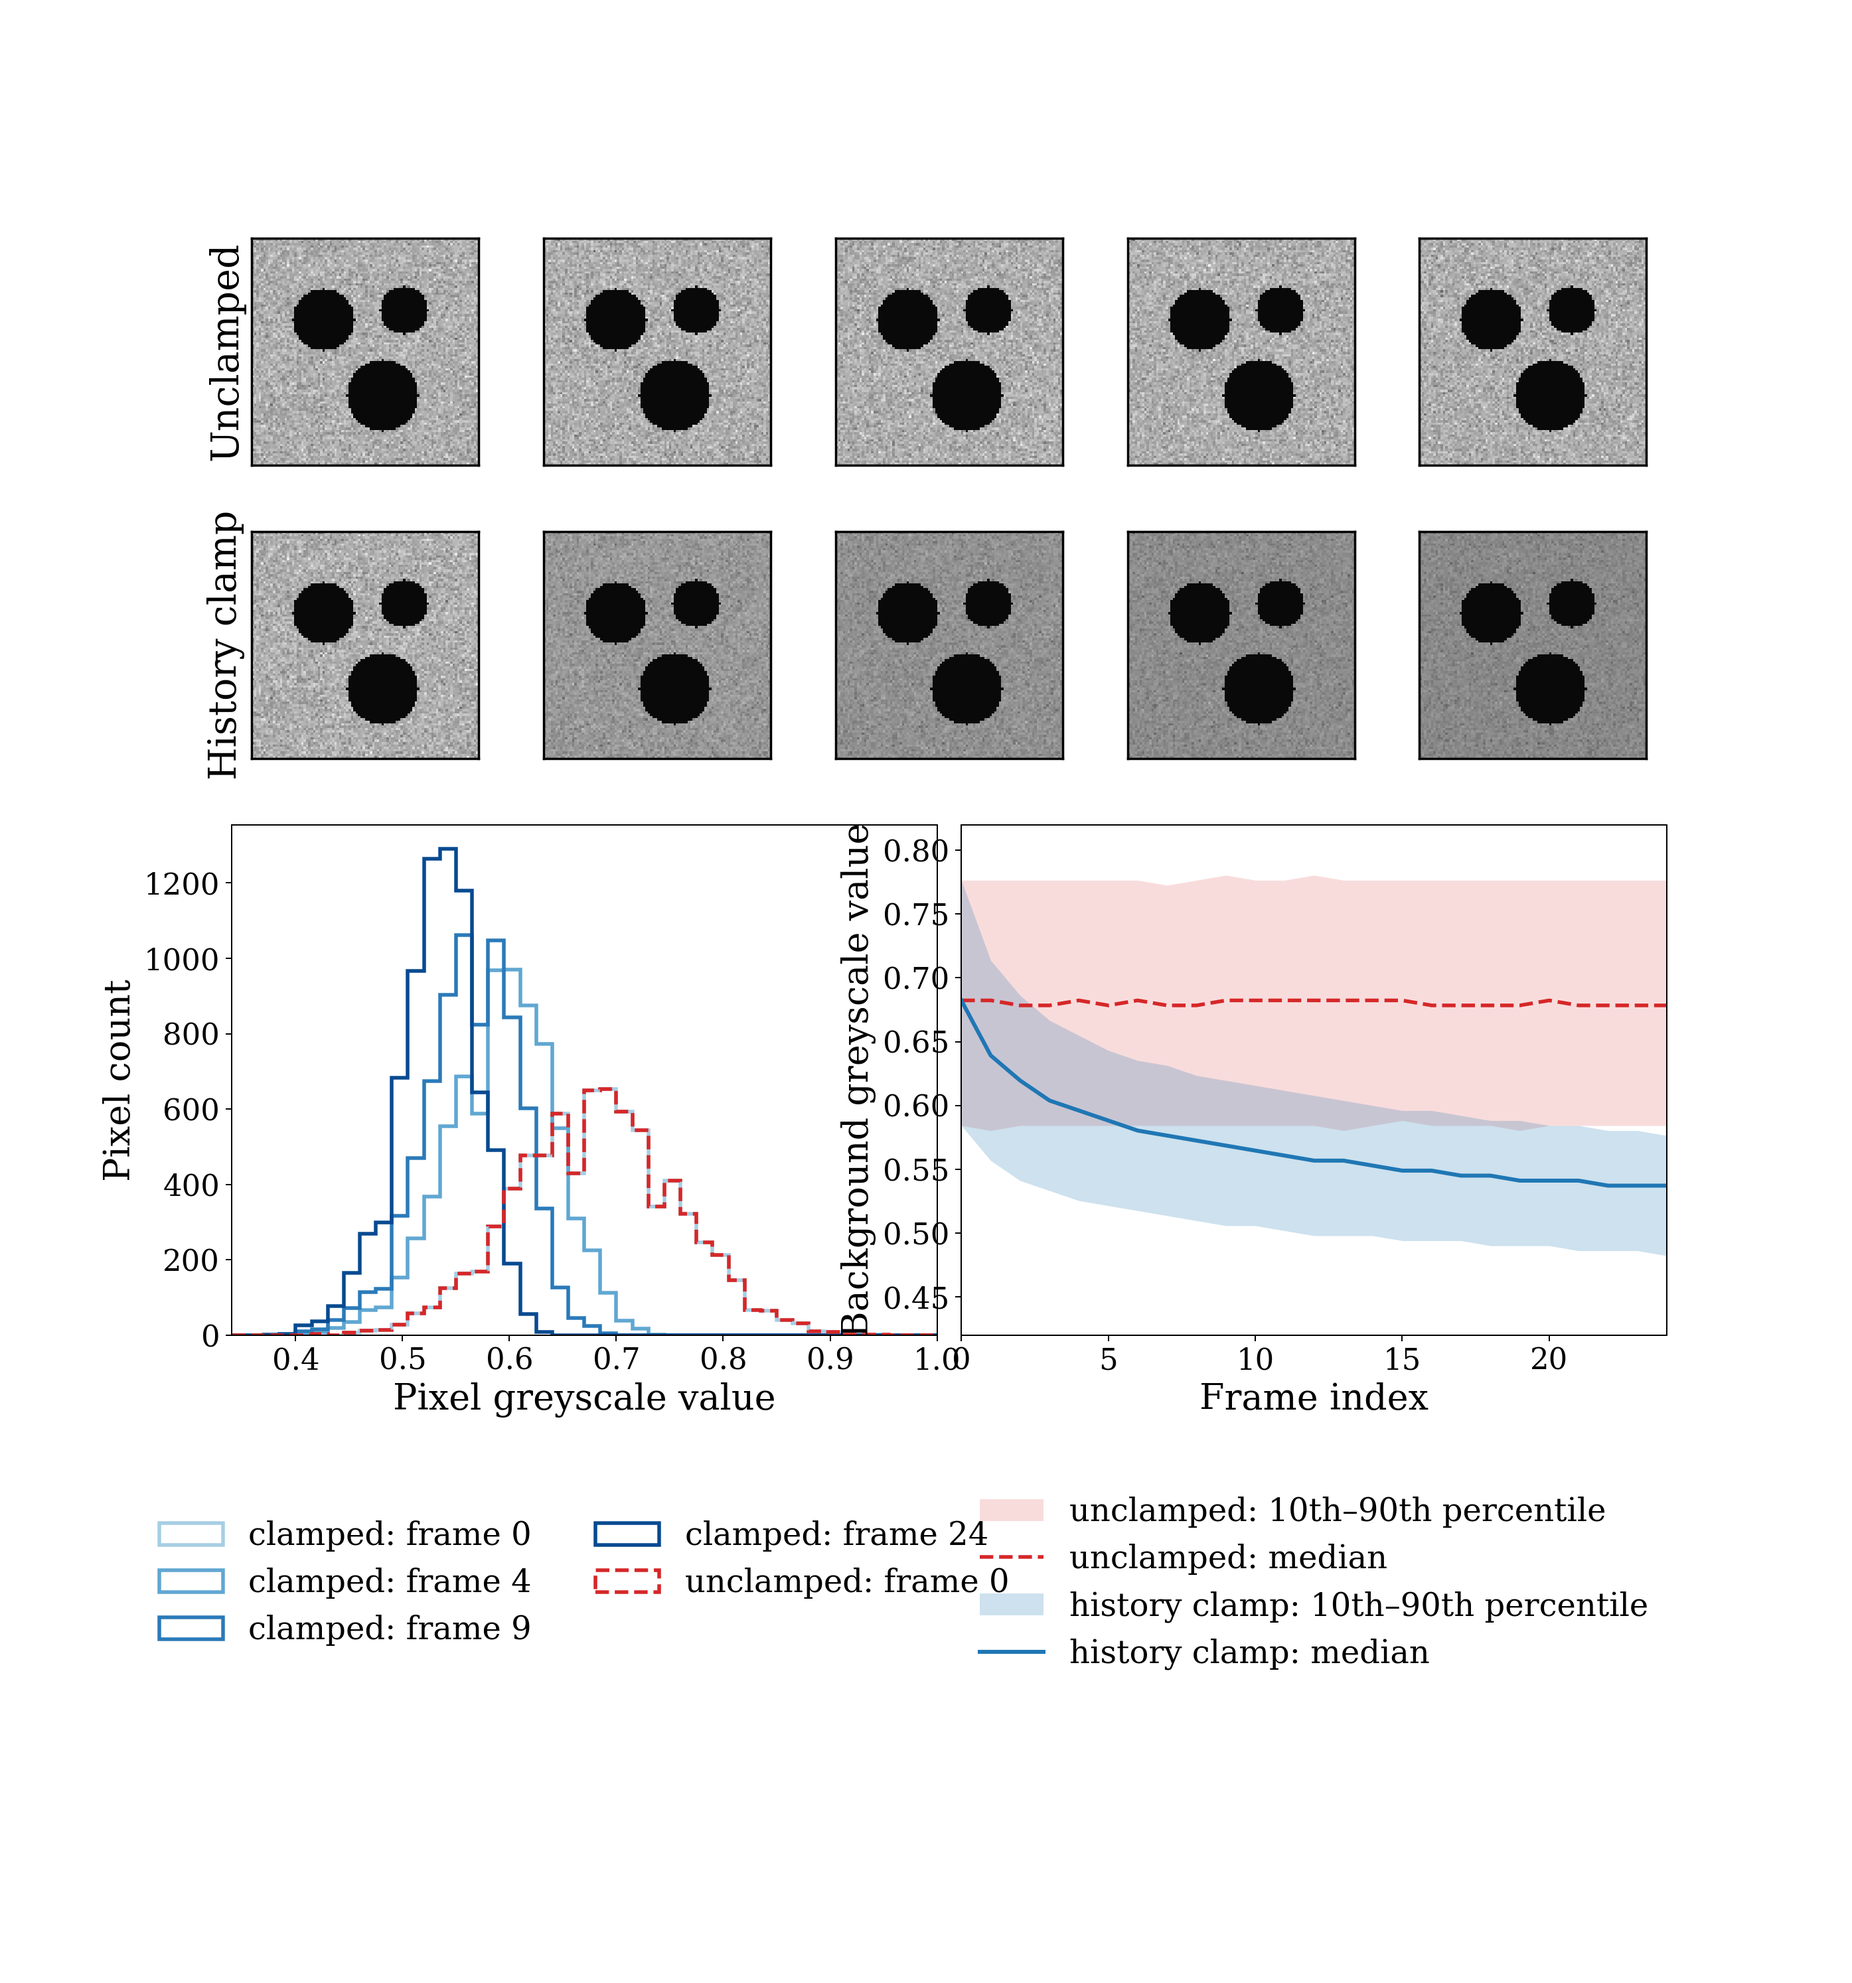
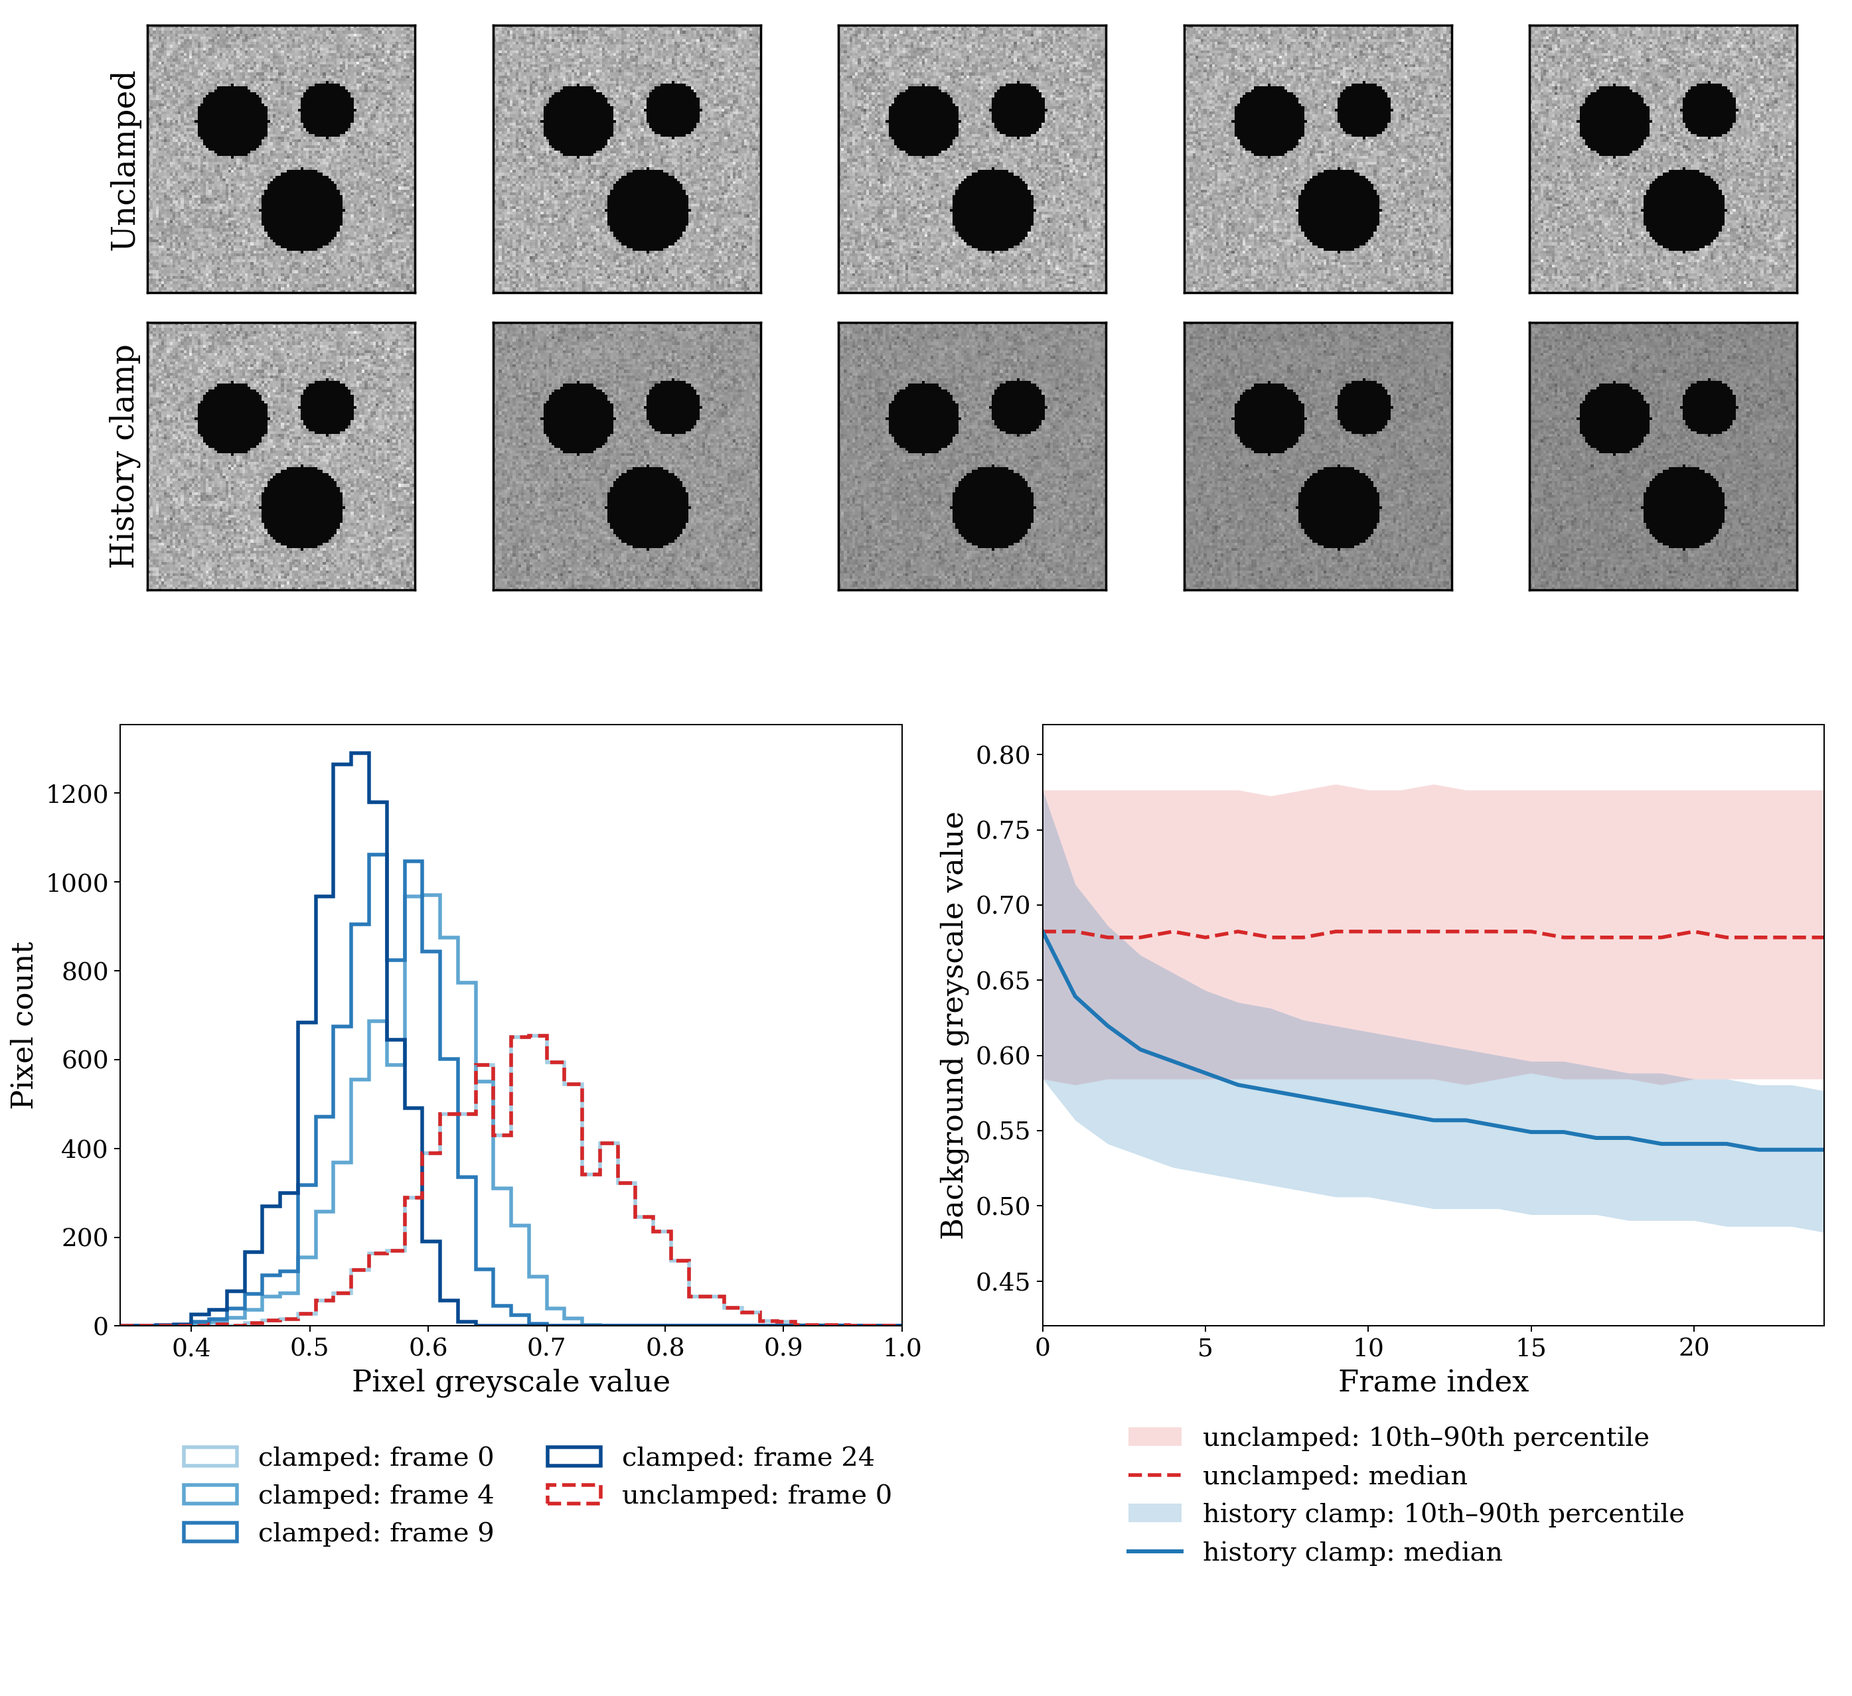
fixed the history clamp image spacing

diff --git a/docs/generate_history_clamp_figure.py b/docs/generate_history_clamp_figure.py
@@ -1,0 +1,209 @@
+"""Generate the synthetic history-clamp figure used by the documentation."""
+
+from __future__ import annotations
+
+from pathlib import Path
+
+import matplotlib.pyplot as plt
+import numpy as np
+
+from deladect.detection.delamination._preprocess import PreprocessingMixin
+
+
+OUTPUT = Path(__file__).parent / "source" / "_static" / "normalization" / "history_clamp_noise.png"
+N_FRAMES = 25
+SHAPE = (96, 96)
+SAMPLE_FRAMES = (0, 4, 9, 16, 24)
+BACKGROUND_LEVEL = 0.68
+NOISE_SIGMA = 0.075
+SEED = 17
+
+
+class _HistoryProcessor(PreprocessingMixin):
+    """Minimal owner used to call the production history-clamp method."""
+
+    def __init__(self) -> None:
+        self._notice_flags: dict[str, bool] = {}
+
+
+def _synthetic_stack() -> tuple[list[np.ndarray], np.ndarray]:
+    """Return noisy frames and a mask selecting unchanged background pixels."""
+    rng = np.random.default_rng(SEED)
+    yy, xx = np.ogrid[: SHAPE[0], : SHAPE[1]]
+    blobs = ((34, 30, 13), (30, 64, 10), (66, 55, 15))
+    damage = np.zeros(SHAPE, dtype=bool)
+    for cy, cx, radius in blobs:
+        damage |= (yy - cy) ** 2 + (xx - cx) ** 2 <= radius**2
+
+    stack: list[np.ndarray] = []
+    for _ in range(N_FRAMES):
+        frame = BACKGROUND_LEVEL + rng.normal(0.0, NOISE_SIGMA, SHAPE)
+        frame = np.clip(frame, 0.0, 1.0)
+        frame[damage] = 0.035
+        stack.append(np.round(frame * 255.0).astype(np.uint8))
+    return stack, ~damage
+
+
+def _background_summary(
+    stack: list[np.ndarray], background: np.ndarray
+) -> tuple[np.ndarray, np.ndarray, np.ndarray]:
+    """Return median, 10th percentile, and 90th percentile by frame."""
+    values = np.asarray([frame[background] for frame in stack], dtype=float) / 255.0
+    return (
+        np.median(values, axis=1),
+        np.percentile(values, 10, axis=1),
+        np.percentile(values, 90, axis=1),
+    )
+
+
+def main() -> None:
+    raw_stack, background = _synthetic_stack()
+    clamped_stack = _HistoryProcessor().apply_minimum_history(
+        raw_stack,
+        key="documentation_history_clamp",
+        history_buffers={},
+        mode="running",
+    )["frames"]
+
+    raw_median, raw_p10, raw_p90 = _background_summary(raw_stack, background)
+    clamp_median, clamp_p10, clamp_p90 = _background_summary(clamped_stack, background)
+
+    plt.rcParams.update(
+        {
+            "font.family": "serif",
+            "font.size": 16,
+            "axes.titlesize": 18,
+            "axes.labelsize": 18,
+            "axes.labelweight": "normal",
+            "xtick.labelsize": 15,
+            "ytick.labelsize": 15,
+            "legend.fontsize": 16,
+        }
+    )
+    fig = plt.figure(figsize=(15.5, 14.2))
+    fig.subplots_adjust(
+        left=0.065,
+        right=0.985,
+        bottom=0.035,
+        top=0.985,
+        wspace=0.16,
+        hspace=0.10,
+    )
+    grid = fig.add_gridspec(
+        5,
+        10,
+        height_ratios=(1.0, 1.0, 0.28, 2.25, 1.05),
+    )
+    plot_grid = grid[3, :].subgridspec(1, 2, wspace=0.18)
+    legend_grid = grid[4, :].subgridspec(1, 2, wspace=0.04)
+
+    for column, frame_idx in enumerate(SAMPLE_FRAMES):
+        raw_ax = fig.add_subplot(grid[0, 2 * column : 2 * column + 2])
+        clamp_ax = fig.add_subplot(grid[1, 2 * column : 2 * column + 2])
+        for axis, frame in (
+            (raw_ax, raw_stack[frame_idx]),
+            (clamp_ax, clamped_stack[frame_idx]),
+        ):
+            axis.imshow(frame, cmap="gray", vmin=0, vmax=255, interpolation="nearest")
+            axis.set_xticks([])
+            axis.set_yticks([])
+            for spine in axis.spines.values():
+                spine.set_linewidth(1.4)
+        if column == 0:
+            raw_ax.set_ylabel("Unclamped", fontsize=19)
+            clamp_ax.set_ylabel("History clamp", fontsize=19)
+
+    hist_ax = fig.add_subplot(plot_grid[0, 0])
+    bins = np.linspace(0.34, 1.0, 45)
+    blues = plt.cm.Blues(np.linspace(0.35, 0.90, 4))
+    for color, frame_idx in zip(blues, (0, 4, 9, 24)):
+        hist_ax.hist(
+            clamped_stack[frame_idx][background] / 255.0,
+            bins=bins,
+            histtype="step",
+            linewidth=2.2,
+            color=color,
+            label=f"clamped: frame {frame_idx}",
+        )
+    hist_ax.hist(
+        raw_stack[0][background] / 255.0,
+        bins=bins,
+        histtype="step",
+        linewidth=2.2,
+        linestyle="--",
+        color="#D62728",
+        label="unclamped: frame 0",
+    )
+    hist_ax.set_xlabel("Pixel greyscale value")
+    hist_ax.set_ylabel("Pixel count")
+    hist_ax.set_xlim(bins[0], bins[-1])
+    hist_handles, hist_labels = hist_ax.get_legend_handles_labels()
+
+    summary_ax = fig.add_subplot(plot_grid[0, 1])
+    frames = np.arange(N_FRAMES)
+    summary_ax.fill_between(
+        frames,
+        raw_p10,
+        raw_p90,
+        color="#D62728",
+        alpha=0.16,
+        linewidth=0,
+        label="unclamped: 10th–90th percentile",
+    )
+    summary_ax.plot(
+        frames,
+        raw_median,
+        color="#D62728",
+        linestyle="--",
+        linewidth=2.2,
+        label="unclamped: median",
+    )
+    summary_ax.fill_between(
+        frames,
+        clamp_p10,
+        clamp_p90,
+        color="#1F77B4",
+        alpha=0.22,
+        linewidth=0,
+        label="history clamp: 10th–90th percentile",
+    )
+    summary_ax.plot(
+        frames,
+        clamp_median,
+        color="#1F77B4",
+        linewidth=2.4,
+        label="history clamp: median",
+    )
+    summary_ax.set_xlabel("Frame index")
+    summary_ax.set_ylabel("Background greyscale value")
+    summary_ax.set_xlim(0, N_FRAMES - 1)
+    summary_ax.set_ylim(0.42, 0.82)
+    summary_handles, summary_labels = summary_ax.get_legend_handles_labels()
+
+    hist_legend_ax = fig.add_subplot(legend_grid[0, 0])
+    hist_legend_ax.axis("off")
+    hist_legend_ax.legend(
+        hist_handles,
+        hist_labels,
+        frameon=False,
+        loc="center",
+        ncol=2,
+    )
+    summary_legend_ax = fig.add_subplot(legend_grid[0, 1])
+    summary_legend_ax.axis("off")
+    summary_legend_ax.legend(
+        summary_handles,
+        summary_labels,
+        frameon=False,
+        loc="center",
+        ncol=1,
+    )
+
+    OUTPUT.parent.mkdir(parents=True, exist_ok=True)
+    fig.savefig(OUTPUT, dpi=180, facecolor="white")
+    plt.close(fig)
+    print(OUTPUT)
+
+
+if __name__ == "__main__":
+    main()
